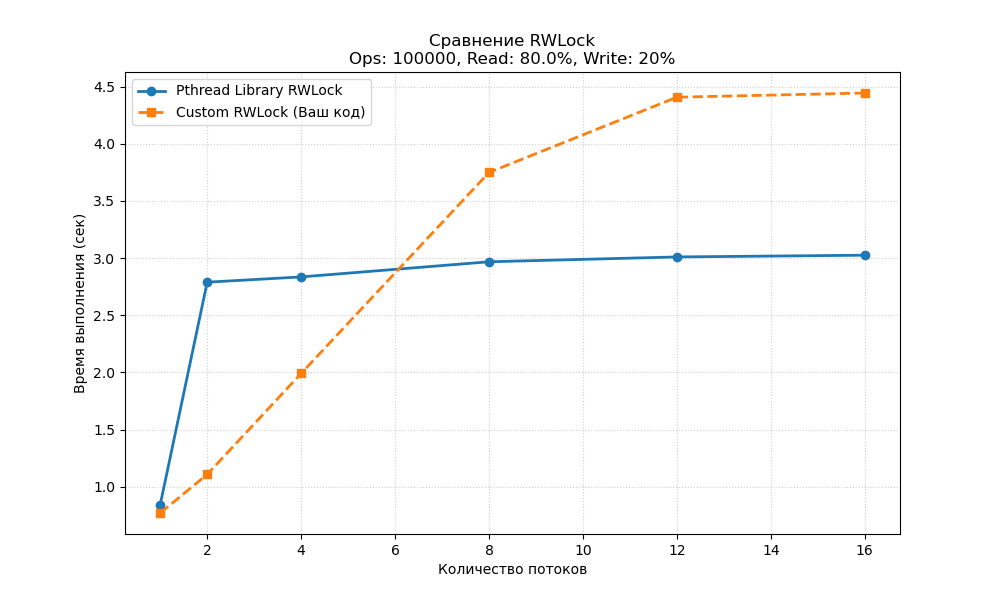
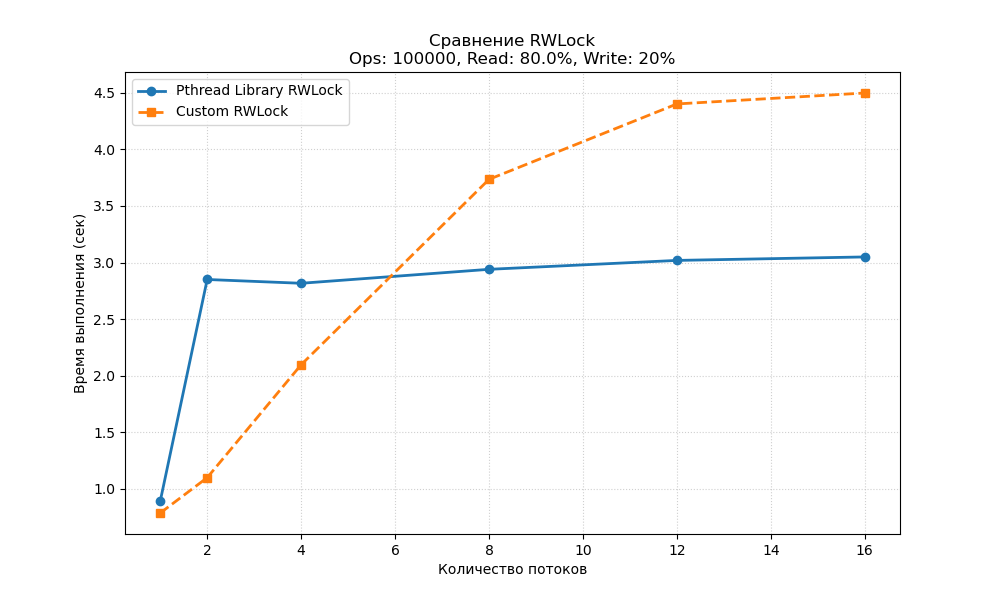
fix

diff --git a/lab2/task_3/bench.py b/lab2/task_3/bench.py
@@ -91,7 +91,7 @@ def main():
     plt.figure(figsize=(10, 6))
     
     plt.plot(THREADS_LIST, times_std, marker='o', label='Pthread Library RWLock', linewidth=2)
-    plt.plot(THREADS_LIST, times_my, marker='s', label='Custom RWLock (Ваш код)', linewidth=2, linestyle='--')
+    plt.plot(THREADS_LIST, times_my, marker='s', label='Custom RWLock', linewidth=2, linestyle='--')
 
     plt.title(f'Сравнение RWLock\nOps: {PARAMS["total_ops"]}, Read: {PARAMS["search_percent"]*100}%, Write: {(1.0-PARAMS["search_percent"])*100:.0f}%')
     plt.xlabel('Количество потоков')
